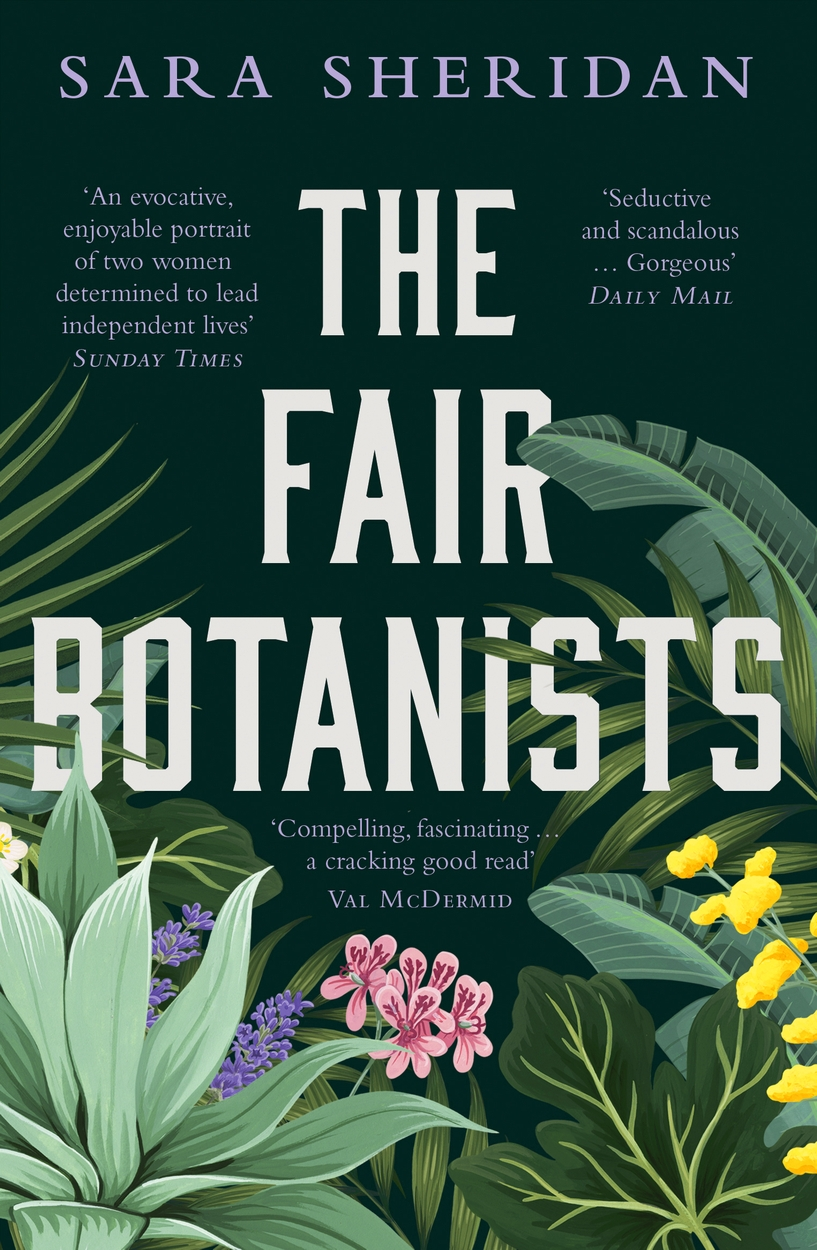
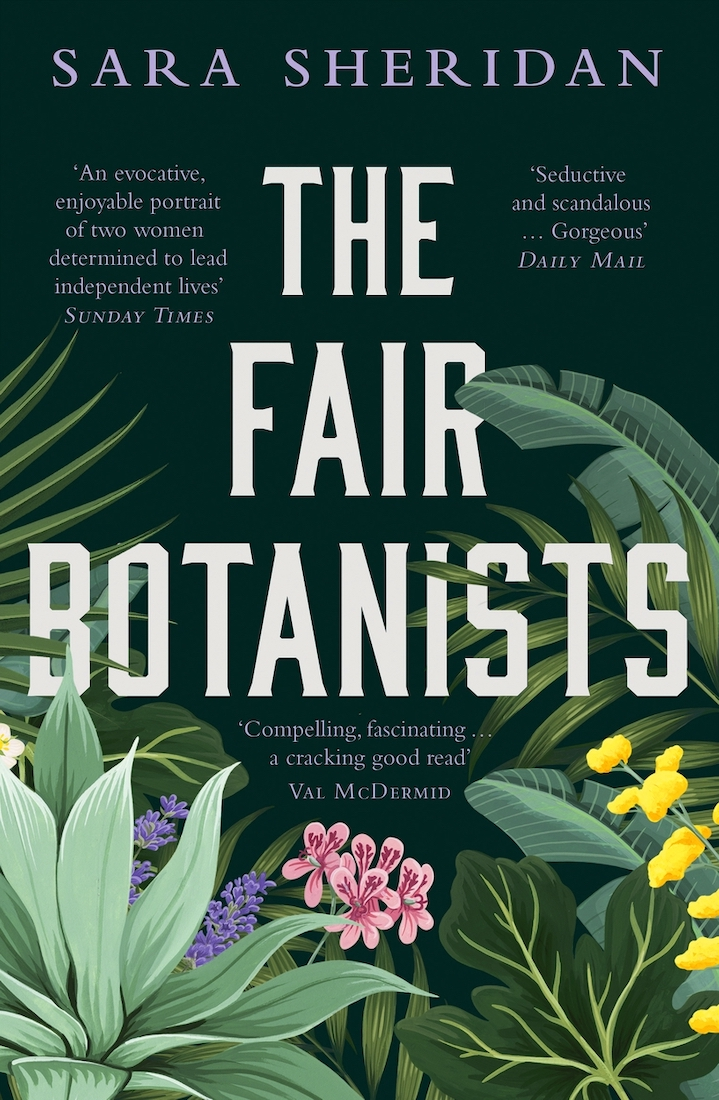
fix: reduce image file sizes

diff --git a/index.html b/index.html
@@ -53,7 +53,7 @@
             <div id="club-wrapper" class="section-wrapper fixed-height-section-wrapper">
                 <h2 id="club-section-heading" class="section-heading level-top-heading-right">Our next monthly book club
                 </h2>
-                <img src="assets/images/the-kingdoms-cover.jpeg" alt="Picture of the book 'The Kingdoms'"
+                <img src="assets/images/the-kingdoms-cover.jpg" alt="Picture of the book 'The Kingdoms'"
                     id="main-club-cover">
                 <div id="club-home-text">
                     <div id="club-home-info">

diff --git a/club.html b/club.html
@@ -86,7 +86,7 @@
             <div id="club-current-book-wrapper" class="section-wrapper">
                 <h2 id="club-current-book-heading" class="section-heading level-top-heading-left">This month's read</h2>
 
-                <img src="assets/images/the-kingdoms-cover.jpeg" alt="Picture of the book 'The Kingdoms'"
+                <img src="assets/images/the-kingdoms-cover.jpg" alt="Picture of the book 'The Kingdoms'"
                     id="current-book-cover">
 
                 <div id="club-current-book-description">

diff --git a/README.md b/README.md
@@ -325,6 +325,9 @@ Page heading sections
 Nav bar on small screens
 - On some narrow screen sizes (e.g. Galaxy Fold), the nav bar wraps onto the next line. I attempted to mitigate this issue by reducing the spacing between menu items a little so it would work well on more screen sizes, but in the long run the best fix would be a burger menu.
 
+Image sizes
+- Large image sizes reduce the website performance. Many of the images were already re-uploaded at reduced file sizes, but they could be compressed more and/or use more efficient file types to furtuer improve performance.
+
 ---
 ## Testing
 ---
@@ -387,11 +390,11 @@ Toppings
 - store image - <a href="https://twitter.com/toppingsedin/status/1343137443965521922" target="_blank">Twitter</a>
 
 Lighthouse
-- store image - <a href="https://www.takeoneaction.org.uk/2022/09/toaff22-x-lighthouse-books-watch-read-think-act/" target="_blank">Take One Action</a>
+- store image - <a href="https://www.theworldbucketlist.com/top-10-best-bookshops-in-edinburgh/" target="_blank">The World Bucket List</a>
 - description - <a href="https://lighthousebookshop.com/about" target="_blank">Lighthouse Bookshop</a>
 
 Golden Hare Books
-- store image - <a href="https://list.co.uk/news/2255/golden-hare-books-brings-us-a-brand-new-festival" target="_blank">The List</a>
+- store image - <a href="https://www.facebook.com/GoldenHareBooks/" target="_blank">Facebook</a>
 - description - <a href="https://goldenharebooks.com/pages/about-us" target="_blank">Golden Hare Books</a>
 
 ### Content
